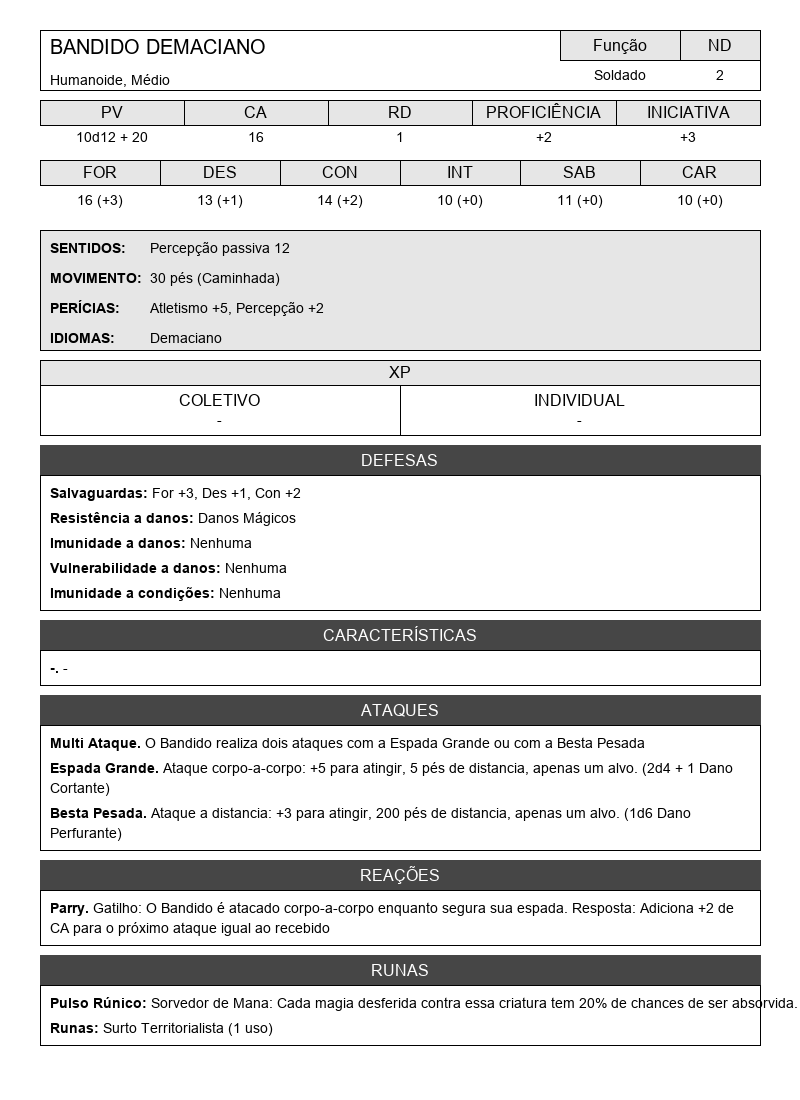
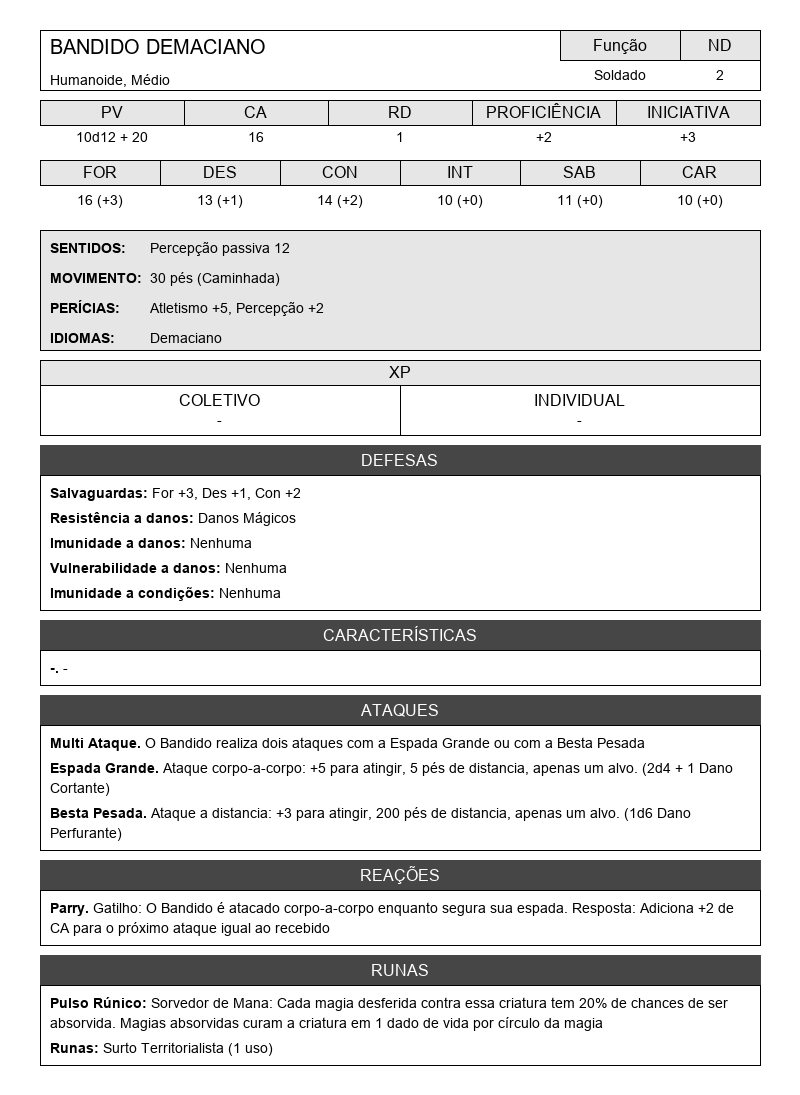
Fix: tamanho dos textos e altura da folha

diff --git a/GerarFichaCriatura.py b/GerarFichaCriatura.py
@@ -10,7 +10,7 @@ with open(ARQUIVO_FICHA_JSON, 'r', encoding='utf-8') as f:
     ficha = json.load(f)
 
 # --- CONFIGURAÇÕES DE ESTILO ---
-WIDTH, HEIGHT = 800, 1100
+WIDTH, HEIGHT = 800, 8000 # Começa com uma tela bem alta para caber todo o conteúdo
 BG_COLOR = (255, 255, 255)
 BOX_COLOR = (230, 230, 230)
 HEADER_COLOR = (70, 70, 70)
@@ -179,10 +179,20 @@ def draw_section(y_start, title, content_list):
             if len(parts) == 2:
                 bold_part = f"{parts[0]}: "
                 regular_part = parts[1]
-                draw_rich_text((50, y), [(font_text_bold, bold_part), (font_text, regular_part)])
+                full_text = bold_part + regular_part
+                wrapped_lines = wrap_text(full_text, font_text, WIDTH - 100)
+                
+                for i, line in enumerate(wrapped_lines):
+                    if i == 0:
+                        draw_rich_text((50, y), [(font_text_bold, bold_part), (font_text, line[len(bold_part):])])
+                    else:
+                        draw_text((50, y), line)
+                    y += 20
             else:
-                draw_text((50, y), item)
-            y += 20
+                wrapped_lines = wrap_text(item, font_text, WIDTH - 100)
+                for line in wrapped_lines:
+                    draw_text((50, y), line)
+                    y += 20
         y += 5 # Espaço entre itens
 
     # Desenha o contorno da seção de conteúdo
@@ -223,7 +233,12 @@ runas_content = [
 y_cursor = draw_section(y_cursor, "RUNAS", runas_content)
 
 
-# --- SALVAR IMAGEM ---
+# --- AJUSTAR ALTURA E SALVAR IMAGEM ---
+# Adiciona um preenchimento na parte inferior para um melhor visual
+final_height = y_cursor + 20 
+# Corta a imagem para a altura calculada
+img = img.crop((0, 0, WIDTH, final_height))
+
 img_path = "Ficha-" + ficha['nome'].replace(" ", "-") + ".png"
 img.save(img_path)
 

diff --git a/README.md b/README.md
@@ -102,3 +102,11 @@ Agora que tudo está pronto, vamos executar o script.
 3.  Isso diz ao Python para executar o nosso script. Em alguns segundos, uma nova imagem `.png` com o nome da sua criatura (por exemplo, `Ficha-Pássaro-Bico-de-Serra.png`) aparecerá na mesma pasta do projeto.
 
 Pronto! Sua ficha de criatura foi gerada. Você pode repetir os passos 4 e 5 para criar quantas criaturas quiser.
+
+---
+
+## Exemplo de Ficha Gerada
+
+Aqui está um exemplo de como a ficha da criatura ficará depois de gerada, usando os dados padrão que vêm com o projeto:
+
+![Exemplo de Ficha de Criatura](Ficha-Bandido-Demaciano.png)
